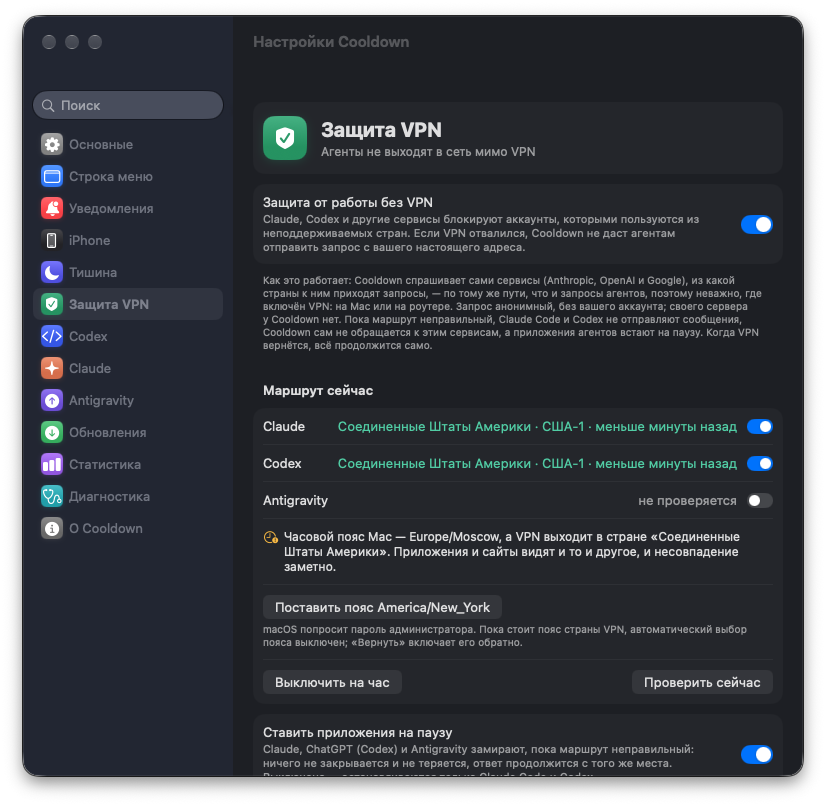
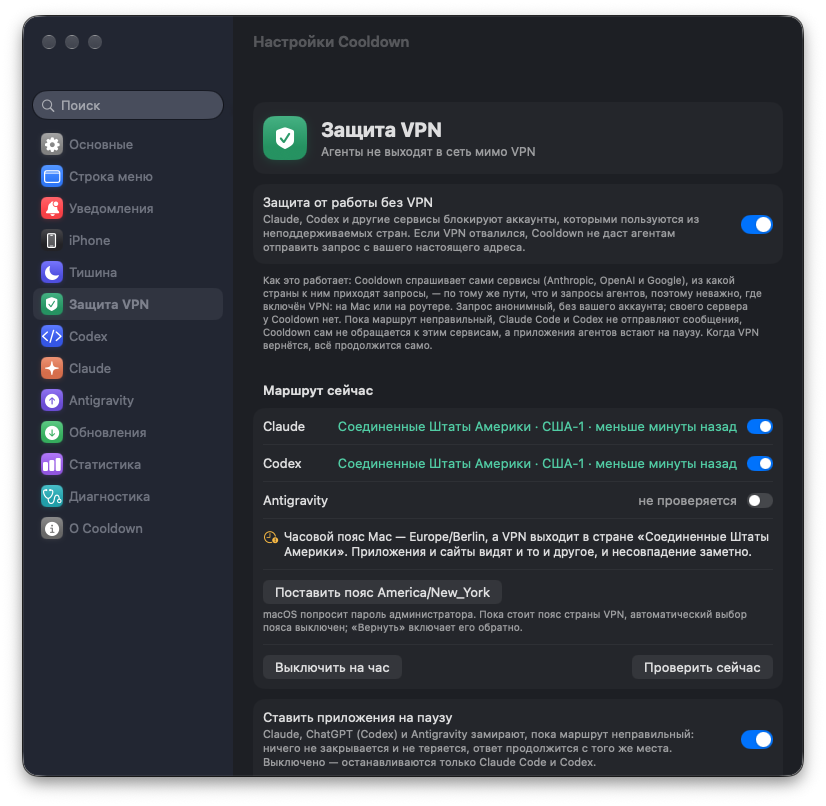
Pictures: rounded card corners, nothing from the real Mac (time zone, clock)

Changed region(s): [[0.3027, 0.6514, 0.9383, 0.9615], [0.8777, 0.8995, 0.9383, 0.9615]]

diff --git a/Sources/Cooldown/UI/Toast.swift b/Sources/Cooldown/UI/Toast.swift
@@ -535,7 +535,8 @@ enum CardSamples {
                                 actions: [.guardExit(.remember, "x"), .guardExit(.once, "x"), .guardExit(.refuse, "x")], life: .sticky)
         case "paused":
             return ToastContent(key: "route-paused", kind: .info, provider: nil, title: L("Защита VPN выключена"),
-                                body: L("До %@. Пока она выключена, агенты работают без проверки маршрута.", Format.clock(Date().addingTimeInterval(3600))),
+                                // A fixed time: the picture must not tell when (and so where) it was made.
+                                body: L("До %@. Пока она выключена, агенты работают без проверки маршрута.", "18:00"),
                                 actions: [.guardResume], life: .sticky)
         default: return nil
         }
@@ -544,6 +545,8 @@ enum CardSamples {
     static func view(_ content: ToastContent) -> some View {
         ToastView(model: ToastController.CardModel(content), act: { _ in }, choose: { _ in }, close: {}, hover: { _ in })
             .background(RoundedRectangle(cornerRadius: 24, style: .continuous).fill(Color(nsColor: .windowBackgroundColor)))
+            // The card's tint fills its whole frame; on screen the glass panel rounds it, here the shape does.
+            .clipShape(RoundedRectangle(cornerRadius: 24, style: .continuous))
     }
 }
 

diff --git a/Sources/Cooldown/Core/RouteGuard.swift b/Sources/Cooldown/Core/RouteGuard.swift
@@ -967,9 +967,8 @@ final class RouteGuard: ObservableObject {
     /// The zone to switch the Mac to (the VPN country's main one), while it does not fit.
     @Published private(set) var timeZoneTarget: String?
 
-    func checkTimeZone() {
+    func checkTimeZone(zone: TimeZone = .current) {
         let exit = GuardService.watched.compactMap { readings[$0] }.first { $0.appVerdict == .ok && $0.at != .distantPast }?.appExit
-        let zone = TimeZone.current
         guard let exit, TimeZoneCheck.mismatch(country: exit.country, zone: zone) == true else {
             timeZoneNote = nil
             timeZoneTarget = nil
@@ -1107,11 +1106,13 @@ final class RouteGuard: ObservableObject {
         let ip = "203.0.113.24" // an address for documentation (RFC 5737)
         Settings.guardExits = ["anthropic": [ip: L("США-1")], "openai": [ip: L("США-1")]]
         Settings.guardOff = ["google"]
+
         let exit = RouteExit(ip: ip, country: "US", colo: "ORD")
         for service in [GuardService.anthropic, .openai] {
             readings[service] = RouteReading(verdict: .ok, exit: exit, appVerdict: .ok, appExit: exit, at: Date().addingTimeInterval(-20))
         }
-        checkTimeZone()
+        // A made-up time zone as well: the Mac's own would tell where its owner lives.
+        checkTimeZone(zone: TimeZone(identifier: "Europe/Berlin") ?? .current)
     }
 
     static let pictureSuite = "cooldown-pictures"
